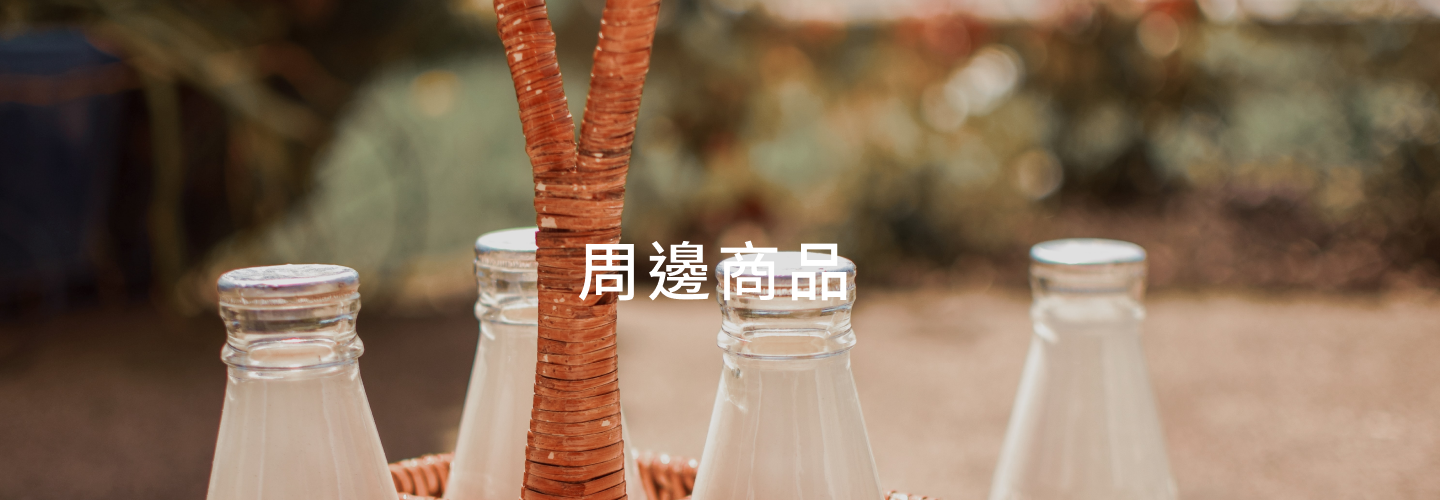
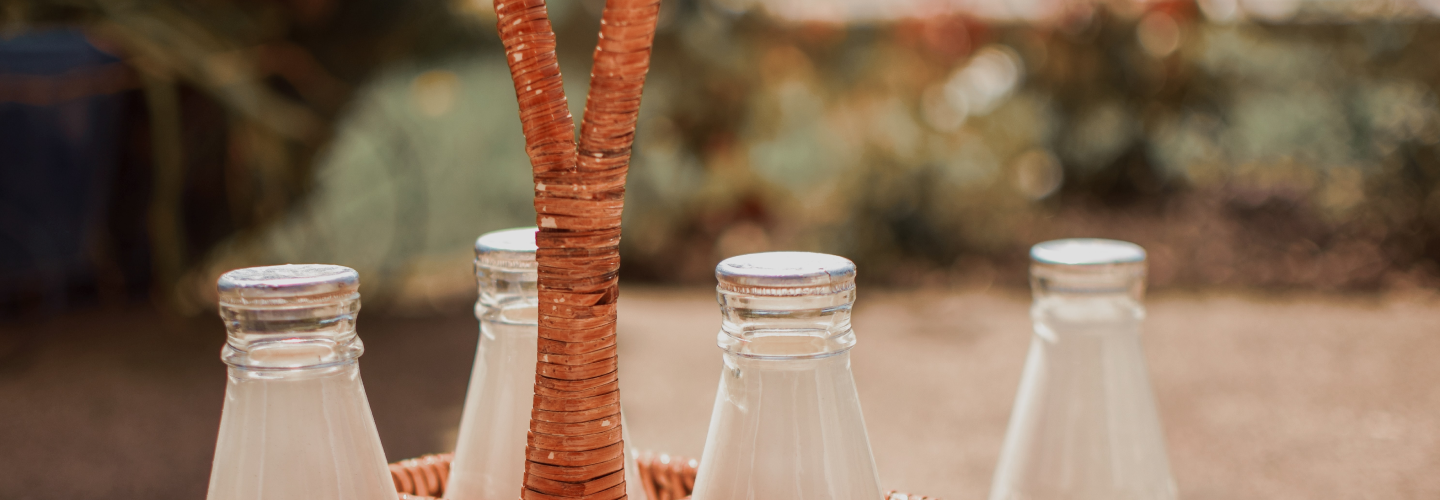
style: 前台頁面首圖修改

Changed region(s): [[0.4062, 0.48, 0.5938, 0.6]]

diff --git a/src/member.html b/src/member.html
@@ -9,40 +9,39 @@
 <body>
         <!-- header -->
         @@include('./layout/header.html')
-        <!-- 首圖 -->
-<div class="member_top">
-    <!-- <img src="./img/activity/member_banner.png" alt=""> -->
-    <h2 class="memberTitle">會員中心</h2>
-</div>
-        <!-- 主要內容 -->
+    <!-- 首圖 -->
+    <div class="memberTop container-fluid">
+        <h3 class="pageTitle">會員中心</h3>
+    </div>
+            <!-- 主要內容 -->
 
 
-<article class="member_wp">
-<h3>會員專區</h3>
-<ul class="mem_fuc">
-<li><a href="./member_revise.html"><img src="./img/icon/mem.png" alt="">會員查詢</a></li>
-<li><a href="./member_activity.html"><img src="./img/icon/cal.png" alt="">我的活動</a></li>
-<li><a href="./member_checklist.html"><img src="./img/icon/list.png" alt="">訂單管理</a></li>
+    <article class="member_wp">
+    <h3>會員專區</h3>
+    <ul class="mem_fuc">
+    <li><a href="./member_revise.html"><img src="./img/icon/mem.png" alt="">會員查詢</a></li>
+    <li><a href="./member_activity.html"><img src="./img/icon/cal.png" alt="">我的活動</a></li>
+    <li><a href="./member_checklist.html"><img src="./img/icon/list.png" alt="">訂單管理</a></li>
 
-</ul>
-
-
+    </ul>
 
 
-</article>
 
-     
-     
-     
-     
-     
-     
-     
+
+    </article>
+
         
         
         
-        <!-- footer -->
-    @@include('./layout/footer.html')
+        
+        
+        
+        
+            
+            
+            
+            <!-- footer -->
+        @@include('./layout/footer.html')
 </body>
 
 </html>

diff --git a/src/sass/frontpages/_info.scss b/src/sass/frontpages/_info.scss
@@ -1,22 +1,5 @@
 .infoTop.container-fluid{
-    padding: 0;
-    background-image: url("../img/info/info_top.png");
-    background-position: center;
-    background-repeat: no-repeat;
-    background-size: cover;
-    height: 500px;
-    @include mobile{
-        height: 250px;
-    }
-    .pageTitle{
-        text-align: center;
-        line-height: 570px;
-        color: $color_W;
-        @include mobile{
-            line-height: 320px;
-        }
-    }
-   
+    @include top_block("../img/info/info_top.png");
 }
 
 .infoLocation{
@@ -26,6 +9,7 @@
         position: relative;
         &:after{
             @include titleDecBall("../img/material/circle_green_800.png"){
+                left: 149px;
                 @include pad{
                     left: 70%;
                 }
@@ -90,10 +74,11 @@
         position: relative;
         &:after{
             @include titleDecBall("../img/material/circle_yellow_800.png"){
-                top: 10px;
-                left: 300px;
+                top: 2px;
+                left: -12px;
                 @include pad{
                     left: 70%;
+                    top: 0px;
                 }
             };
         }

diff --git a/src/sass/mixin/_mixin.scss b/src/sass/mixin/_mixin.scss
@@ -106,3 +106,39 @@
     @content;
   }
 }
+
+// 前台首圖
+@mixin top_block ($url) {
+  padding: 0;
+    background-image: url($url);
+    background-position: center;
+    background-repeat: no-repeat;
+    background-size: cover;
+    height: 450px;
+    @include pad{
+        height: 300px;
+    }
+    @include mobile{
+        height: 250px;
+    }
+    @include desktop-s{
+        height: 380px;
+    }
+    .pageTitle{
+        text-align: center;
+        line-height: 520px;
+        color: $color_W;
+        @include pad{
+            font-size: $fs-m;
+            line-height: 370px;
+        }
+        @include mobile{
+            font-size: $fs-m;
+            line-height: 320px;
+        }
+        @include desktop-s{
+            line-height: 450px;
+        }
+    }
+   
+}

diff --git a/src/sass/frontpages/_news.scss b/src/sass/frontpages/_news.scss
@@ -1,18 +1,5 @@
-
-.mainup{
-    max-width: 100%;
-    height: 550px;
-    background-image: url(../../img/news/gozha-net-xDrxJCdedcI-unsplash\ 1.png);
-    background-repeat: no-repeat;
-    background-size: cover;
-    // border: 1px solid black;
-    display: flex;
-    justify-content: center;
-    align-items: center;
-}
-.mainup h2{
-    color: white;
-    font-size: 64px;
+.newsTop.container-fluid{
+    @include top_block("../img/news/newstop.png");
 }
 
 .main_out{

diff --git a/src/animal.html b/src/animal.html
@@ -15,8 +15,10 @@
     <div id="wrapper">
 
         <!-- main -->
-
-        <img class=animal_banner src="./img/animal/animal_banner.png" alt="">
+        <div class="animalTop container-fluid">
+            <h3 class="pageTitle">Sìkha 動物</h3>
+        </div>
+        <!-- <img class=animal_banner src="./img/animal/animal_banner.png" alt=""> -->
         <div class="animal-container">
             <!-- map -->
             <div class="icon_map_r ">

diff --git a/src/member_revise.html b/src/member_revise.html
@@ -11,10 +11,10 @@
         @@include('./layout/header.html')
 
         <!-- 首圖 -->
-        <div class="member_top">
-            <img src="./img/activity/member_banner.png" alt="">
-            <h2 class="memberTitle">會員中心</h2>
-        </div>
+        <!-- 首圖 -->
+    <div class="memberTop container-fluid">
+        <h3 class="pageTitle">會員中心</h3>
+    </div>
 
        <!-- 切換btn -->
         <div class="mem_tab">

diff --git a/src/products.html b/src/products.html
@@ -11,7 +11,11 @@
     <!-- header -->
     @@include('./layout/header.html')
 
-    <img src="./img/porducts/topbg.png" alt="" class="img_top">
+    <!-- 首圖 -->
+    <div class="productsTop container-fluid">
+        <h3 class="pageTitle">周邊產品</h3>
+    </div>
+
     <main class="main_in">
         <div class="noting_out container-lg">
             <span class="noting"><a href="">首頁</a>|<a href="">周邊產品</a></span>

diff --git a/src/activity.html b/src/activity.html
@@ -153,9 +153,13 @@
     <!-- header -->
     @@include('./layout/header.html')
 
+    <!-- 首圖 -->
+    <div class="activityTop container-fluid">
+        <h3 class="pageTitle">牧場節目</h3>
+    </div>
+
 
     <div id="app">
-        <img class="activity_banner" src="./img/activity/activity_banner.png" alt="">
         <!-- 3D slider -->
         <div class="checkList">
             <section id="slider">

diff --git a/src/sass/frontpages/_member.scss b/src/sass/frontpages/_member.scss
@@ -1,16 +1,7 @@
 //member首圖
 
-.member_top{
-    width: 100%;
-    position: relative;
-    height: 500px;
-    background-image: url(../../img/activity/member_banner.png);
-    background-repeat: no-repeat;
-    background-size: cover; 
-}
-.member_top img{
-    display: block;
-    margin: 0 auto;
+.memberTop.container-fluid{
+    @include top_block("../img/material/membertop.png");
 }
 
 .memberTitle{

diff --git a/src/member_checklist.html b/src/member_checklist.html
@@ -10,9 +10,9 @@
     <!-- header -->
     @@include('./layout/header.html')
 
-    <div class="member_top">
-        <img src="./img/activity/member_banner.png" alt="">
-        <h2 class="memberTitle">會員中心</h2>
+    <!-- 首圖 -->
+    <div class="memberTop container-fluid">
+        <h3 class="pageTitle">會員中心</h3>
     </div>
        
        <!-- 切換btn -->

diff --git a/src/member_activity.html b/src/member_activity.html
@@ -10,9 +10,8 @@
         <!-- header -->
         @@include('./layout/header.html')
         <!-- 首圖 -->
-<div class="member_top">
-    <img src="./img/activity/member_banner.png" alt="">
-    <h2 class="memberTitle">會員中心</h2>
+<div class="memberTop container-fluid">
+    <h3 class="pageTitle">會員中心</h3>
 </div>
 
 

diff --git a/src/sass/frontpages/_products.scss b/src/sass/frontpages/_products.scss
@@ -1,9 +1,10 @@
-.img_top {
-    width: 100%;
+.productsTop.container-fluid{
+    @include top_block("../img/porducts/topbg.png");
 }
 
+
 .main_in {
-    margin: 15px auto 0px;
+    margin: 0 auto 0px;
 }
 
 .main_top {
@@ -16,7 +17,7 @@
 }
 
 .noting_out {
-    margin-top: 150px;
+    margin-top: 100px;
     margin-bottom: 50px;
 }
 
